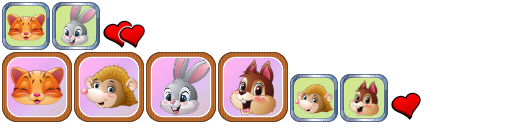
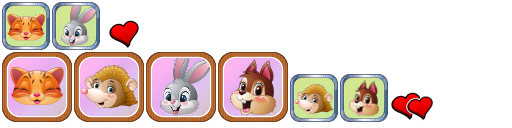
Fixed Hearts width and height size

Changed region(s): [[0.1875, 0.1562, 0.2812, 0.375], [0.7812, 0.75, 0.8438, 0.9375]]

diff --git a/core/src/ru/mitrakov/self/rush/screens/ScreenBattle.java b/core/src/ru/mitrakov/self/rush/screens/ScreenBattle.java
@@ -235,12 +235,12 @@ public class ScreenBattle extends LocalizableScreen {
 
     private void buildTable() {
         table.add(gui).colspan(5);
-        table.row();
-        table.add(btnThing).padLeft(2).spaceRight(50);
-        table.add(abilityButtonsScroll).width(280);
-        table.add(lblScore).spaceRight(50);
-        table.add(imgLives).spaceRight(50);
-        table.add(lblTime);
+        table.row().spaceRight(50);
+        table.add(btnThing).padLeft(3);
+        table.add(abilityButtonsScroll).expandX();
+        table.add(lblScore);
+        table.add(imgLives).width(imgLives.getWidth()).height(imgLives.getHeight());
+        table.add(lblTime).padRight(3);
     }
 
     private void reset() {
